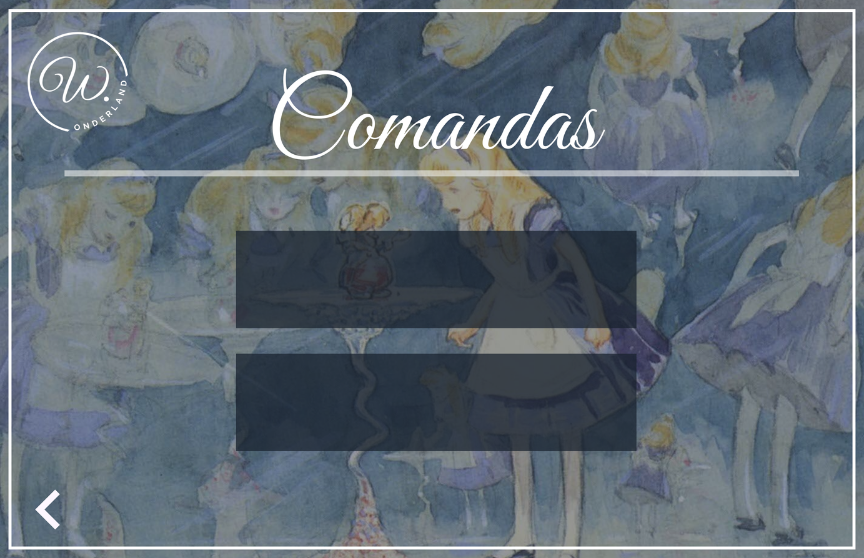
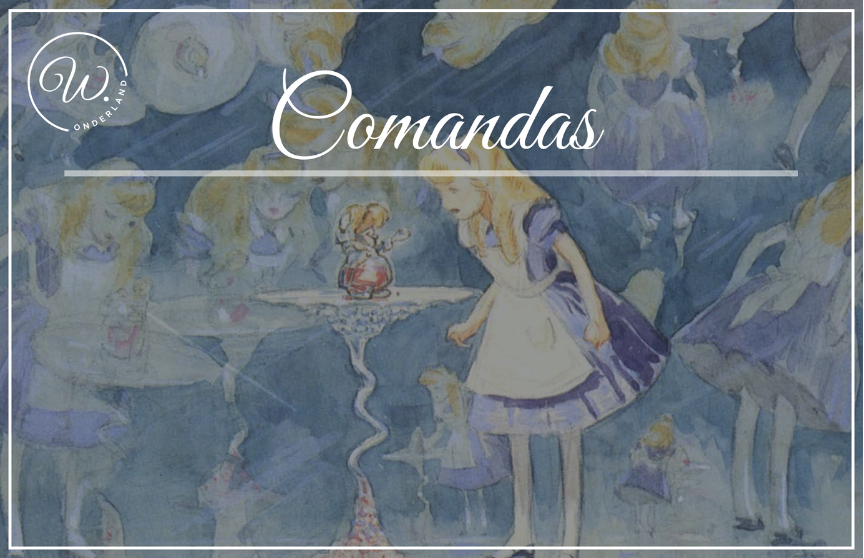
GUIs Reportes y correcciones botones
se agrego reportes y se cambiaron botones

diff --git a/SistemaRestaurantes/src/main/java/wonderland/sistemarestaurantes/reportes/IniciarReporte.java b/SistemaRestaurantes/src/main/java/wonderland/sistemarestaurantes/reportes/IniciarReporte.java
@@ -1,0 +1,82 @@
+/*
+ * Click nbfs://nbhost/SystemFileSystem/Templates/Licenses/license-default.txt to change this license
+ * Click nbfs://nbhost/SystemFileSystem/Templates/GUIForms/JFrame.java to edit this template
+ */
+package wonderland.sistemarestaurantes.reportes;
+
+/**
+ *
+ * @author Dana Chavez
+ */
+public class IniciarReporte extends javax.swing.JFrame {
+
+    /**
+     * Creates new form IniciarReporte
+     */
+    public IniciarReporte() {
+        initComponents();
+    }
+
+    /**
+     * This method is called from within the constructor to initialize the form.
+     * WARNING: Do NOT modify this code. The content of this method is always
+     * regenerated by the Form Editor.
+     */
+    @SuppressWarnings("unchecked")
+    // <editor-fold defaultstate="collapsed" desc="Generated Code">//GEN-BEGIN:initComponents
+    private void initComponents() {
+
+        setDefaultCloseOperation(javax.swing.WindowConstants.EXIT_ON_CLOSE);
+
+        javax.swing.GroupLayout layout = new javax.swing.GroupLayout(getContentPane());
+        getContentPane().setLayout(layout);
+        layout.setHorizontalGroup(
+            layout.createParallelGroup(javax.swing.GroupLayout.Alignment.LEADING)
+            .addGap(0, 400, Short.MAX_VALUE)
+        );
+        layout.setVerticalGroup(
+            layout.createParallelGroup(javax.swing.GroupLayout.Alignment.LEADING)
+            .addGap(0, 300, Short.MAX_VALUE)
+        );
+
+        pack();
+    }// </editor-fold>//GEN-END:initComponents
+
+    /**
+     * @param args the command line arguments
+     */
+    public static void main(String args[]) {
+        /* Set the Nimbus look and feel */
+        //<editor-fold defaultstate="collapsed" desc=" Look and feel setting code (optional) ">
+        /* If Nimbus (introduced in Java SE 6) is not available, stay with the default look and feel.
+         * For details see http://download.oracle.com/javase/tutorial/uiswing/lookandfeel/plaf.html 
+         */
+        try {
+            for (javax.swing.UIManager.LookAndFeelInfo info : javax.swing.UIManager.getInstalledLookAndFeels()) {
+                if ("Nimbus".equals(info.getName())) {
+                    javax.swing.UIManager.setLookAndFeel(info.getClassName());
+                    break;
+                }
+            }
+        } catch (ClassNotFoundException ex) {
+            java.util.logging.Logger.getLogger(IniciarReporte.class.getName()).log(java.util.logging.Level.SEVERE, null, ex);
+        } catch (InstantiationException ex) {
+            java.util.logging.Logger.getLogger(IniciarReporte.class.getName()).log(java.util.logging.Level.SEVERE, null, ex);
+        } catch (IllegalAccessException ex) {
+            java.util.logging.Logger.getLogger(IniciarReporte.class.getName()).log(java.util.logging.Level.SEVERE, null, ex);
+        } catch (javax.swing.UnsupportedLookAndFeelException ex) {
+            java.util.logging.Logger.getLogger(IniciarReporte.class.getName()).log(java.util.logging.Level.SEVERE, null, ex);
+        }
+        //</editor-fold>
+
+        /* Create and display the form */
+        java.awt.EventQueue.invokeLater(new Runnable() {
+            public void run() {
+                new IniciarReporte().setVisible(true);
+            }
+        });
+    }
+
+    // Variables declaration - do not modify//GEN-BEGIN:variables
+    // End of variables declaration//GEN-END:variables
+}
